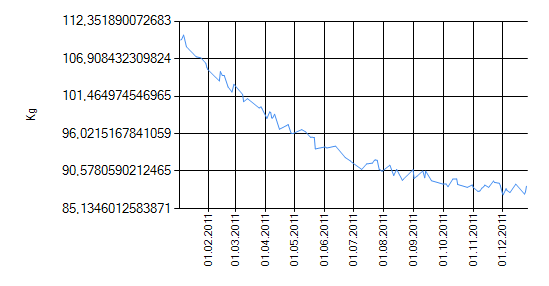
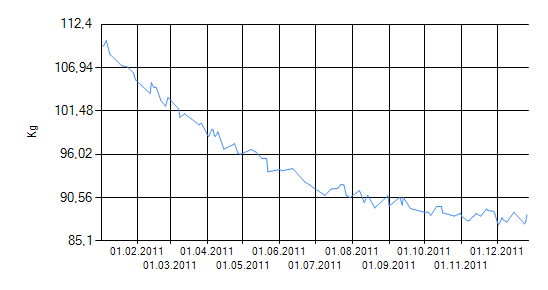
Made some upgrades: -Added Error controller and error method so that I can redirect the user if something wrong happens. -Also fixed a better home view.

Changed region(s): [[0.031, 0.028, 0.9617, 0.951]]

diff --git a/weightmeas/Content/Site.css b/weightmeas/Content/Site.css
@@ -1,7 +1,7 @@
 body
 {
-    font-size: .85em;
-    font-family: "Trebuchet MS", Verdana, Helvetica, Sans-Serif;
+    font-size: 12px;
+    font-family: "Lucida Sans Unicode", "Lucida Grande", sans-serif;
     color: #232323;
 	background: #444466;
 }
@@ -136,6 +136,29 @@ textarea
 	text-decoration: none;
 }
 
+.UnderlinedStrong {
+    font-weight: bold;
+    text-decoration: underline;
+}
+
+.RoundedSection {
+    border: black 1px solid;
+    padding: 10px;
+    border-radius: 15px;
+    -moz-border-radius: 15px;
+    background: white;
+    margin-bottom: 20px;
+    margin-top: 20px;
+}
+
+.DottedLink {
+    color: #404040;
+    border: 1px dotted gray;
+    text-align: center;
+    padding-top: 10px;
+    padding-bottom: 10px;
+}
+
 #InfoPanel table 
 {
     border: black 1px solid;
@@ -147,12 +170,4 @@ textarea
 
 #InfoPanel td {
     padding-right: 30px;
-}
-
-img {
-    border: black 1px solid;
-    padding: 10px;
-    border-radius: 15px;
-    -moz-border-radius: 15px;
-    background: white;
 }

diff --git a/weightmeas/Controllers/HomeController.cs b/weightmeas/Controllers/HomeController.cs
@@ -81,6 +81,13 @@ namespace weightmeas.Controllers
             // Create the private token.
             newUser.PrivateToken = TokenFactory.GenerateToken();
 
+            // ===================================================================
+            // Check if user already exist. If already exist, then redirect
+            // to DisplayError action with errorCode 10001.
+            // ===================================================================
+            var user = _context.Users.Find(newUser.Username);
+            if (user != null) return RedirectToAction("DisplayError", "Error", new {@errorCode = 10001});
+
             // TODO: Maybe we need to check if the private key exist already.
 
             // Execute register.
@@ -165,19 +172,18 @@ namespace weightmeas.Controllers
             foreach(var plot in plots)
             {
                 dates.Add(plot.PlotStamp);
-                weights.Add(plot.Weight);
+                weights.Add(Math.Round(plot.Weight,2));
             }
 
-            var chart = new Chart(width: 540, height: 280);
+            var chart = new Chart(540,280);
             chart.AddSeries
                 (
                 chartType: "line",
                 xValue: dates,
                 yValues: weights
                );
-            chart.SetYAxis("Kg", minWeight, maxWeight);
+            chart.SetYAxis("", Math.Round(minWeight,1), Math.Round(maxWeight,1));
             chart.Write("png");
-            
 
             return null;
         }
@@ -218,12 +224,12 @@ namespace weightmeas.Controllers
             var rand = new Random((int)DateTime.Now.Ticks);
 
             var demoUser = new User
-                               {
-                                   Password = "demo",
-                                   Username = "demo@demo.com",
-                                   PrivateToken = TokenFactory.GenerateToken(),
+                {
+                    Password = "demo",
+                    Username = "demo@demo.com",
+                    PrivateToken = TokenFactory.GenerateToken(),
                                   
-                               };
+                };
 
             // First remove user.
             if (_context.Users.Count(x => x.Username == "demo@demo.com")==1)

diff --git a/weightmeas/Controllers/ErrorController.cs b/weightmeas/Controllers/ErrorController.cs
@@ -1,0 +1,37 @@
+using System;
+using System.Collections.Generic;
+using System.Linq;
+using System.Web;
+using System.Web.Mvc;
+
+namespace weightmeas.Controllers
+{
+    public class ErrorController : Controller
+    {
+        private Dictionary<int, string> _errorCodes;
+
+        private Dictionary<int, string> ErrorCodes
+        {
+            get
+            {
+                return _errorCodes ?? (_errorCodes = new Dictionary<int, string>()
+                    {
+                        {10001, "Cannot register user, because username is already taken."},
+                    });
+            }
+        }
+
+        /// <summary>
+        /// Render an error
+        /// </summary>
+        /// <param name="errorCode"></param>
+        /// <returns></returns>
+        public ActionResult DisplayError(int errorCode)
+        {
+            ViewData["ErrorCode"] = errorCode;
+            ViewData["ErrorMessage"] = ErrorCodes[errorCode];
+            return View();
+        }
+
+    }
+}
